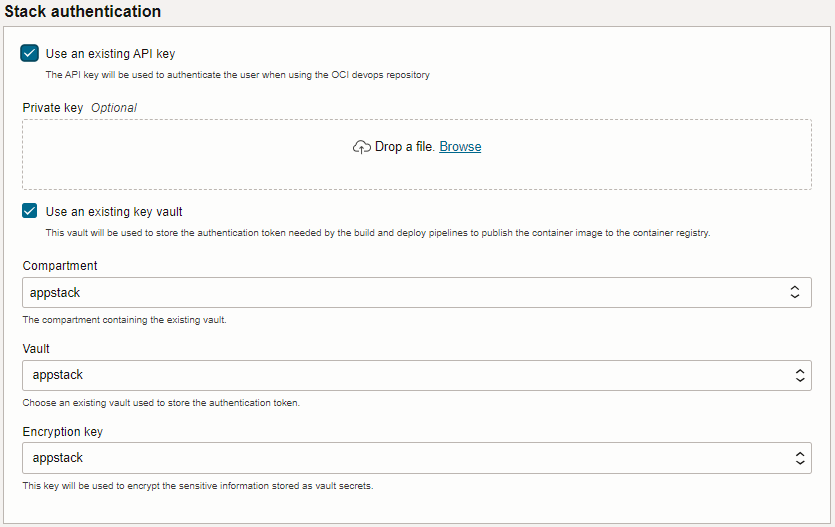
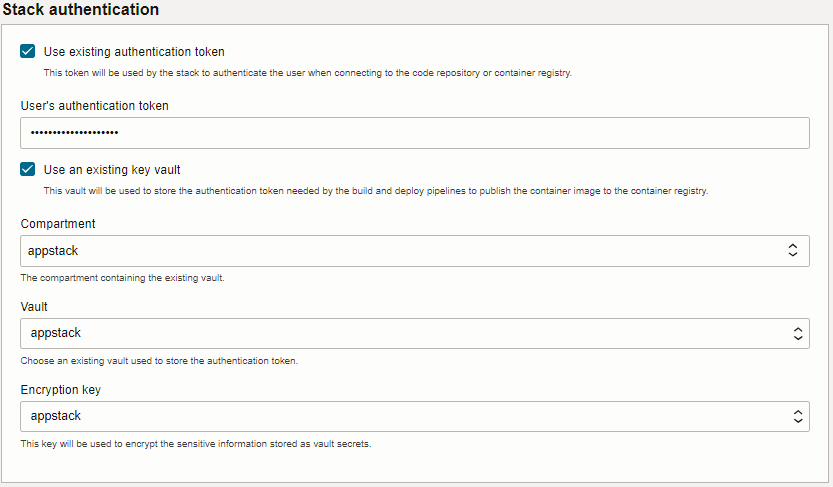
Updated documentation (#32)

diff --git a/listing/usage-information.html b/listing/usage-information.html
@@ -51,10 +51,11 @@
 	</li>
 </ul>
 
-<p><strong>Stack authentication</strong>: the stack uses an API key to connect to the repository. A&nbsp;Vault is used
-	to store sensitive information such as passwords.&nbsp;The stack can either use an existing vault or create a new
-	one.&nbsp;To use an existing key vault, the stack will let you select the existing vault and key (AES). To create a
-	new vault you must provide the&nbsp;user-friendly name of the vault to create.</p>
+<p><strong>Stack authentication</strong>: a Vault is used to store sensitive information such as authentication tokens
+	and passwords. The stack can either use an existing vault or create a new one. To use an existing key vault, the stack
+	will let you select the existing vault and key (AES). To create a new vault you must provide a user-friendly name of
+	the vault to create. An <strong>authentication token</strong> is to authenticate the user when accessing the code
+	repository, it can either be provided or created by the stack.</p>
 
 <p><strong>Database</strong>: The stack assumes that the persistence is handled by a database and this section lets you
 	configure that database. You can either choose an existing database by selecting the database or create a new one.</p>

diff --git a/usage_instructions.md b/usage_instructions.md
@@ -42,8 +42,10 @@ The stack supports different kinds of deployments: *source code* deployment, jav
 
 ![](./screenshots/7_Vault.png)
 
+An **authentication token** is used by the stack to authenticate the user when connecting to the code repository. This token can either be provided or created by the stack. **Note** that there is a limit on the maximum number of authentication tokens a user can have and that once the token is generated it will not be displayed again.
 
-An **API key** is used to authenticate the user when connecting to the code repository. The stack can either create a new API key or use an existing API key if the **private key** is provided.
+To use an existing token:
+  - **User's authentication token:** provide the user's authentication token
 
 A **Vault** is used to store sensitive information such as authentication tokens and passwords. The stack can either use an existing vault (which can be in a different compartment) or create a new one.
 
